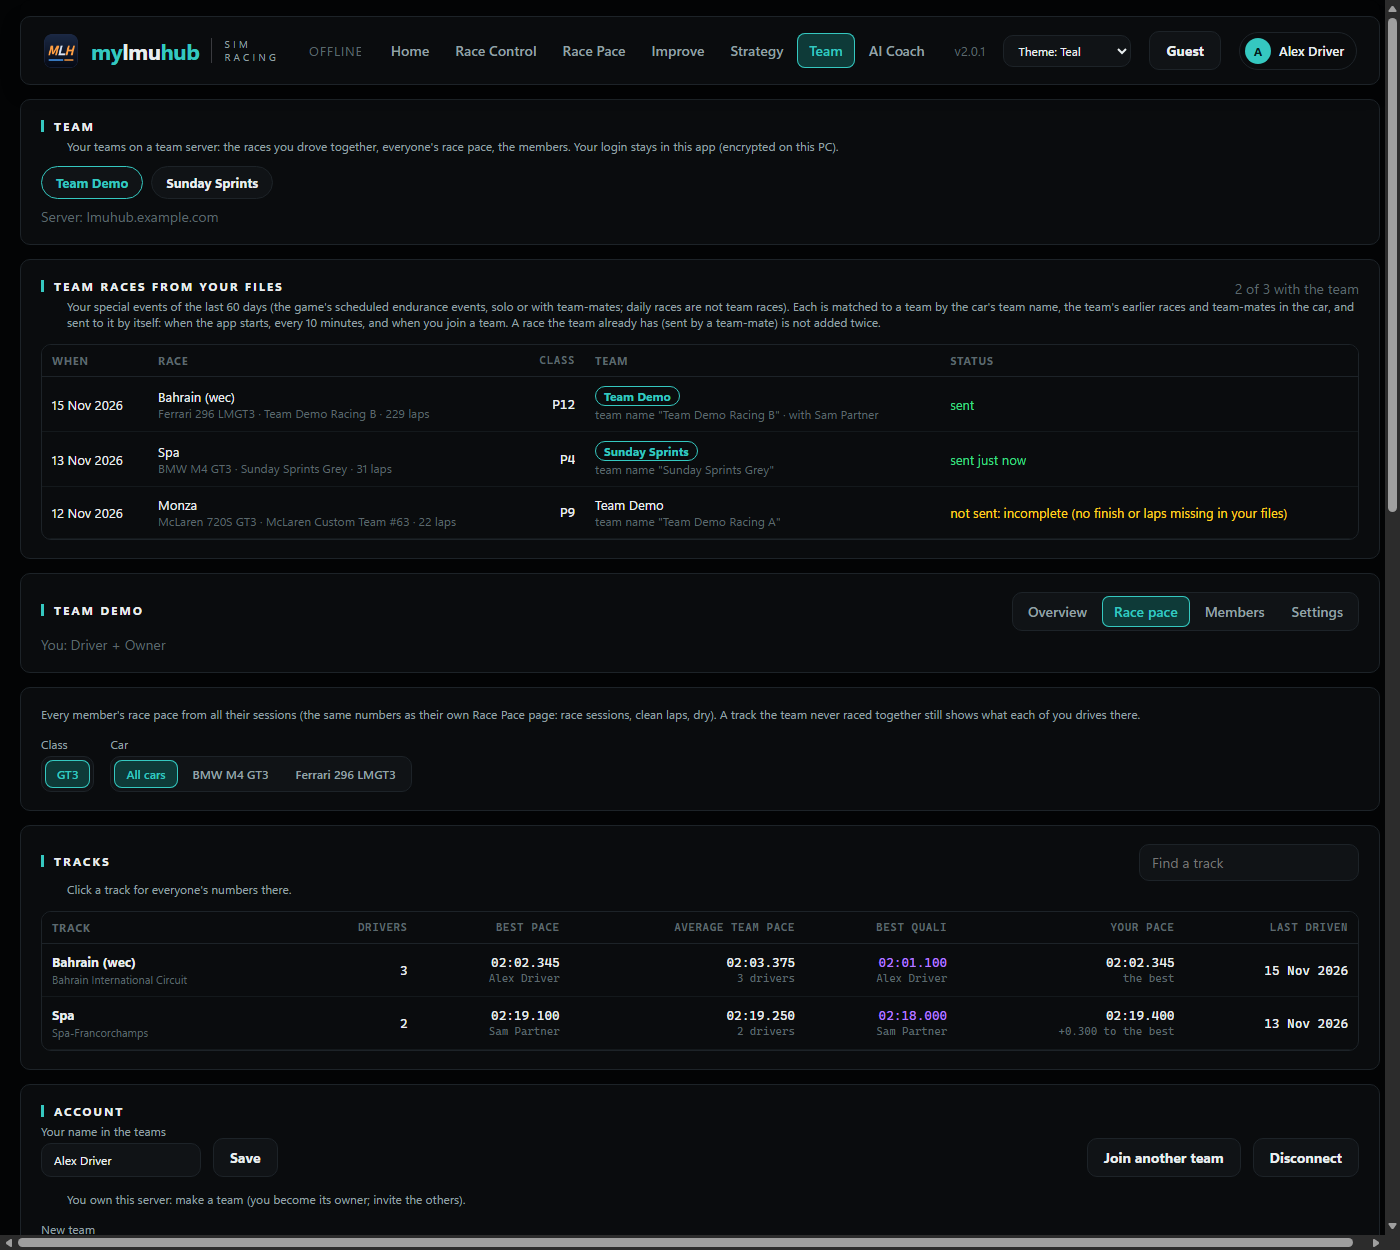
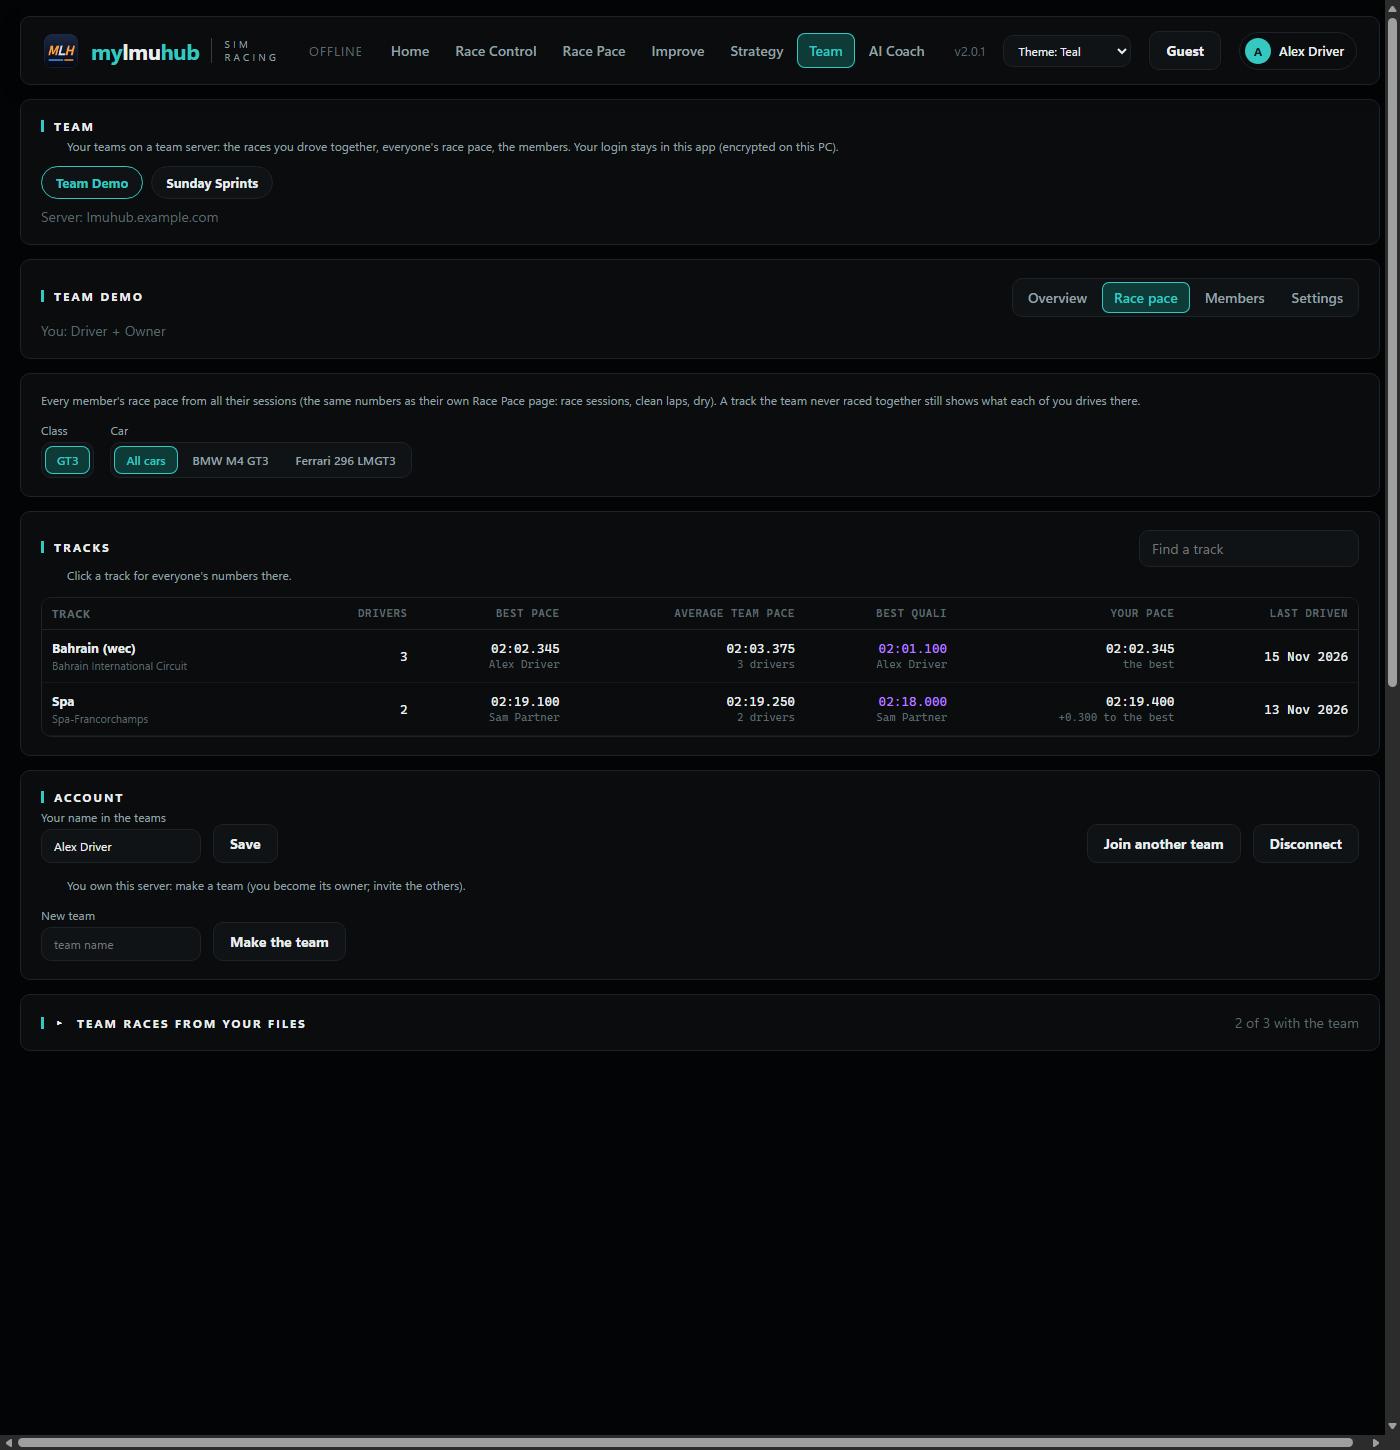
Team page: team races from your files folded at the bottom

diff --git a/src/MyLMUHub.App/wwwroot/team.html b/src/MyLMUHub.App/wwwroot/team.html
@@ -69,15 +69,6 @@
     </div>
   </section>
 
-  <!-- the team races found in your files: sent by themselves -->
-  <section class="card" style="margin-top:14px" id="newCard" hidden>
-    <div style="display:flex;flex-wrap:wrap;gap:12px;align-items:center;justify-content:space-between"><h2>Team races from your files</h2><span class="faint" id="syncInfo"></span></div>
-    <div class="sub">Your special events of the last 60 days (the game's scheduled endurance events, solo or with team-mates; daily races are not team races). Each is matched to a
-      team by the car's team name, the team's earlier races and team-mates in the car, and sent to it by itself: when the app starts, every 10 minutes, and when you
-      join a team. A race the team already has (sent by a team-mate) is not added twice.</div>
-    <div class="scroll" style="max-height:420px"><table class="tbl" id="newTbl"></table></div>
-  </section>
-
   <!-- one team -->
   <div id="teamArea" hidden>
     <section class="card" style="margin-top:14px">
@@ -179,6 +170,18 @@
         <label class="field">New team<input class="input" id="newTeamIn" placeholder="team name"></label>
         <button class="btn" id="newTeamBtn">Make the team</button>
       </div>
+    </div>
+  </section>
+  <!-- the team races found in your files: sent by themselves (owner 2026-11-16: at the bottom, folded) -->
+  <section class="card" style="margin-top:14px" id="newCard" hidden>
+    <div id="newHead" style="display:flex;flex-wrap:wrap;gap:12px;align-items:center;justify-content:space-between;cursor:pointer">
+      <h2 style="margin:0"><span id="newArrow">&#9656;</span> Team races from your files</h2><span class="faint" id="syncInfo"></span>
+    </div>
+    <div id="newBody" hidden style="margin-top:10px">
+      <div class="sub">Your special events of the last 60 days (the game's scheduled endurance events, solo or with team-mates; daily races are not team races). Each is matched to a
+        team by the car's team name, the team's earlier races and team-mates in the car, and sent to it by itself: when the app starts, every 10 minutes, and when you
+        join a team. A race the team already has (sent by a team-mate) is not added twice.</div>
+      <div class="scroll" style="max-height:420px"><table class="tbl" id="newTbl"></table></div>
     </div>
   </section>
 </div>

diff --git a/src/MyLMUHub.App/wwwroot/js/team.js b/src/MyLMUHub.App/wwwroot/js/team.js
@@ -84,6 +84,11 @@
   // ---------- team races from your files (sent by themselves, TeamClient.Suggest) ----------
   var STATUS = { 'sent': ['sent', 'var(--green)'], 'sent now': ['sent just now', 'var(--green)'], 'incomplete': ['not sent: incomplete (no finish or laps missing in your files)', 'var(--yellow)'],
     'unclear': ['not sent: fits more than one team', 'var(--yellow)'], 'unknown': ['not sent: no team recognised', 'var(--faint)'] };
+  // folded by default; the choice is kept
+  var newOpen = false; try { newOpen = localStorage.getItem('pw-team-races-open') === '1'; } catch (e) {}
+  function foldNew() { $('newBody').hidden = !newOpen; $('newArrow').innerHTML = newOpen ? '&#9662;' : '&#9656;'; }
+  $('newHead').onclick = function () { newOpen = !newOpen; try { localStorage.setItem('pw-team-races-open', newOpen ? '1' : '0'); } catch (e) {} foldNew(); };
+  foldNew();
   function renderNew() {
     var list = sug.races || [];
     show('newCard', !!teams().length);
